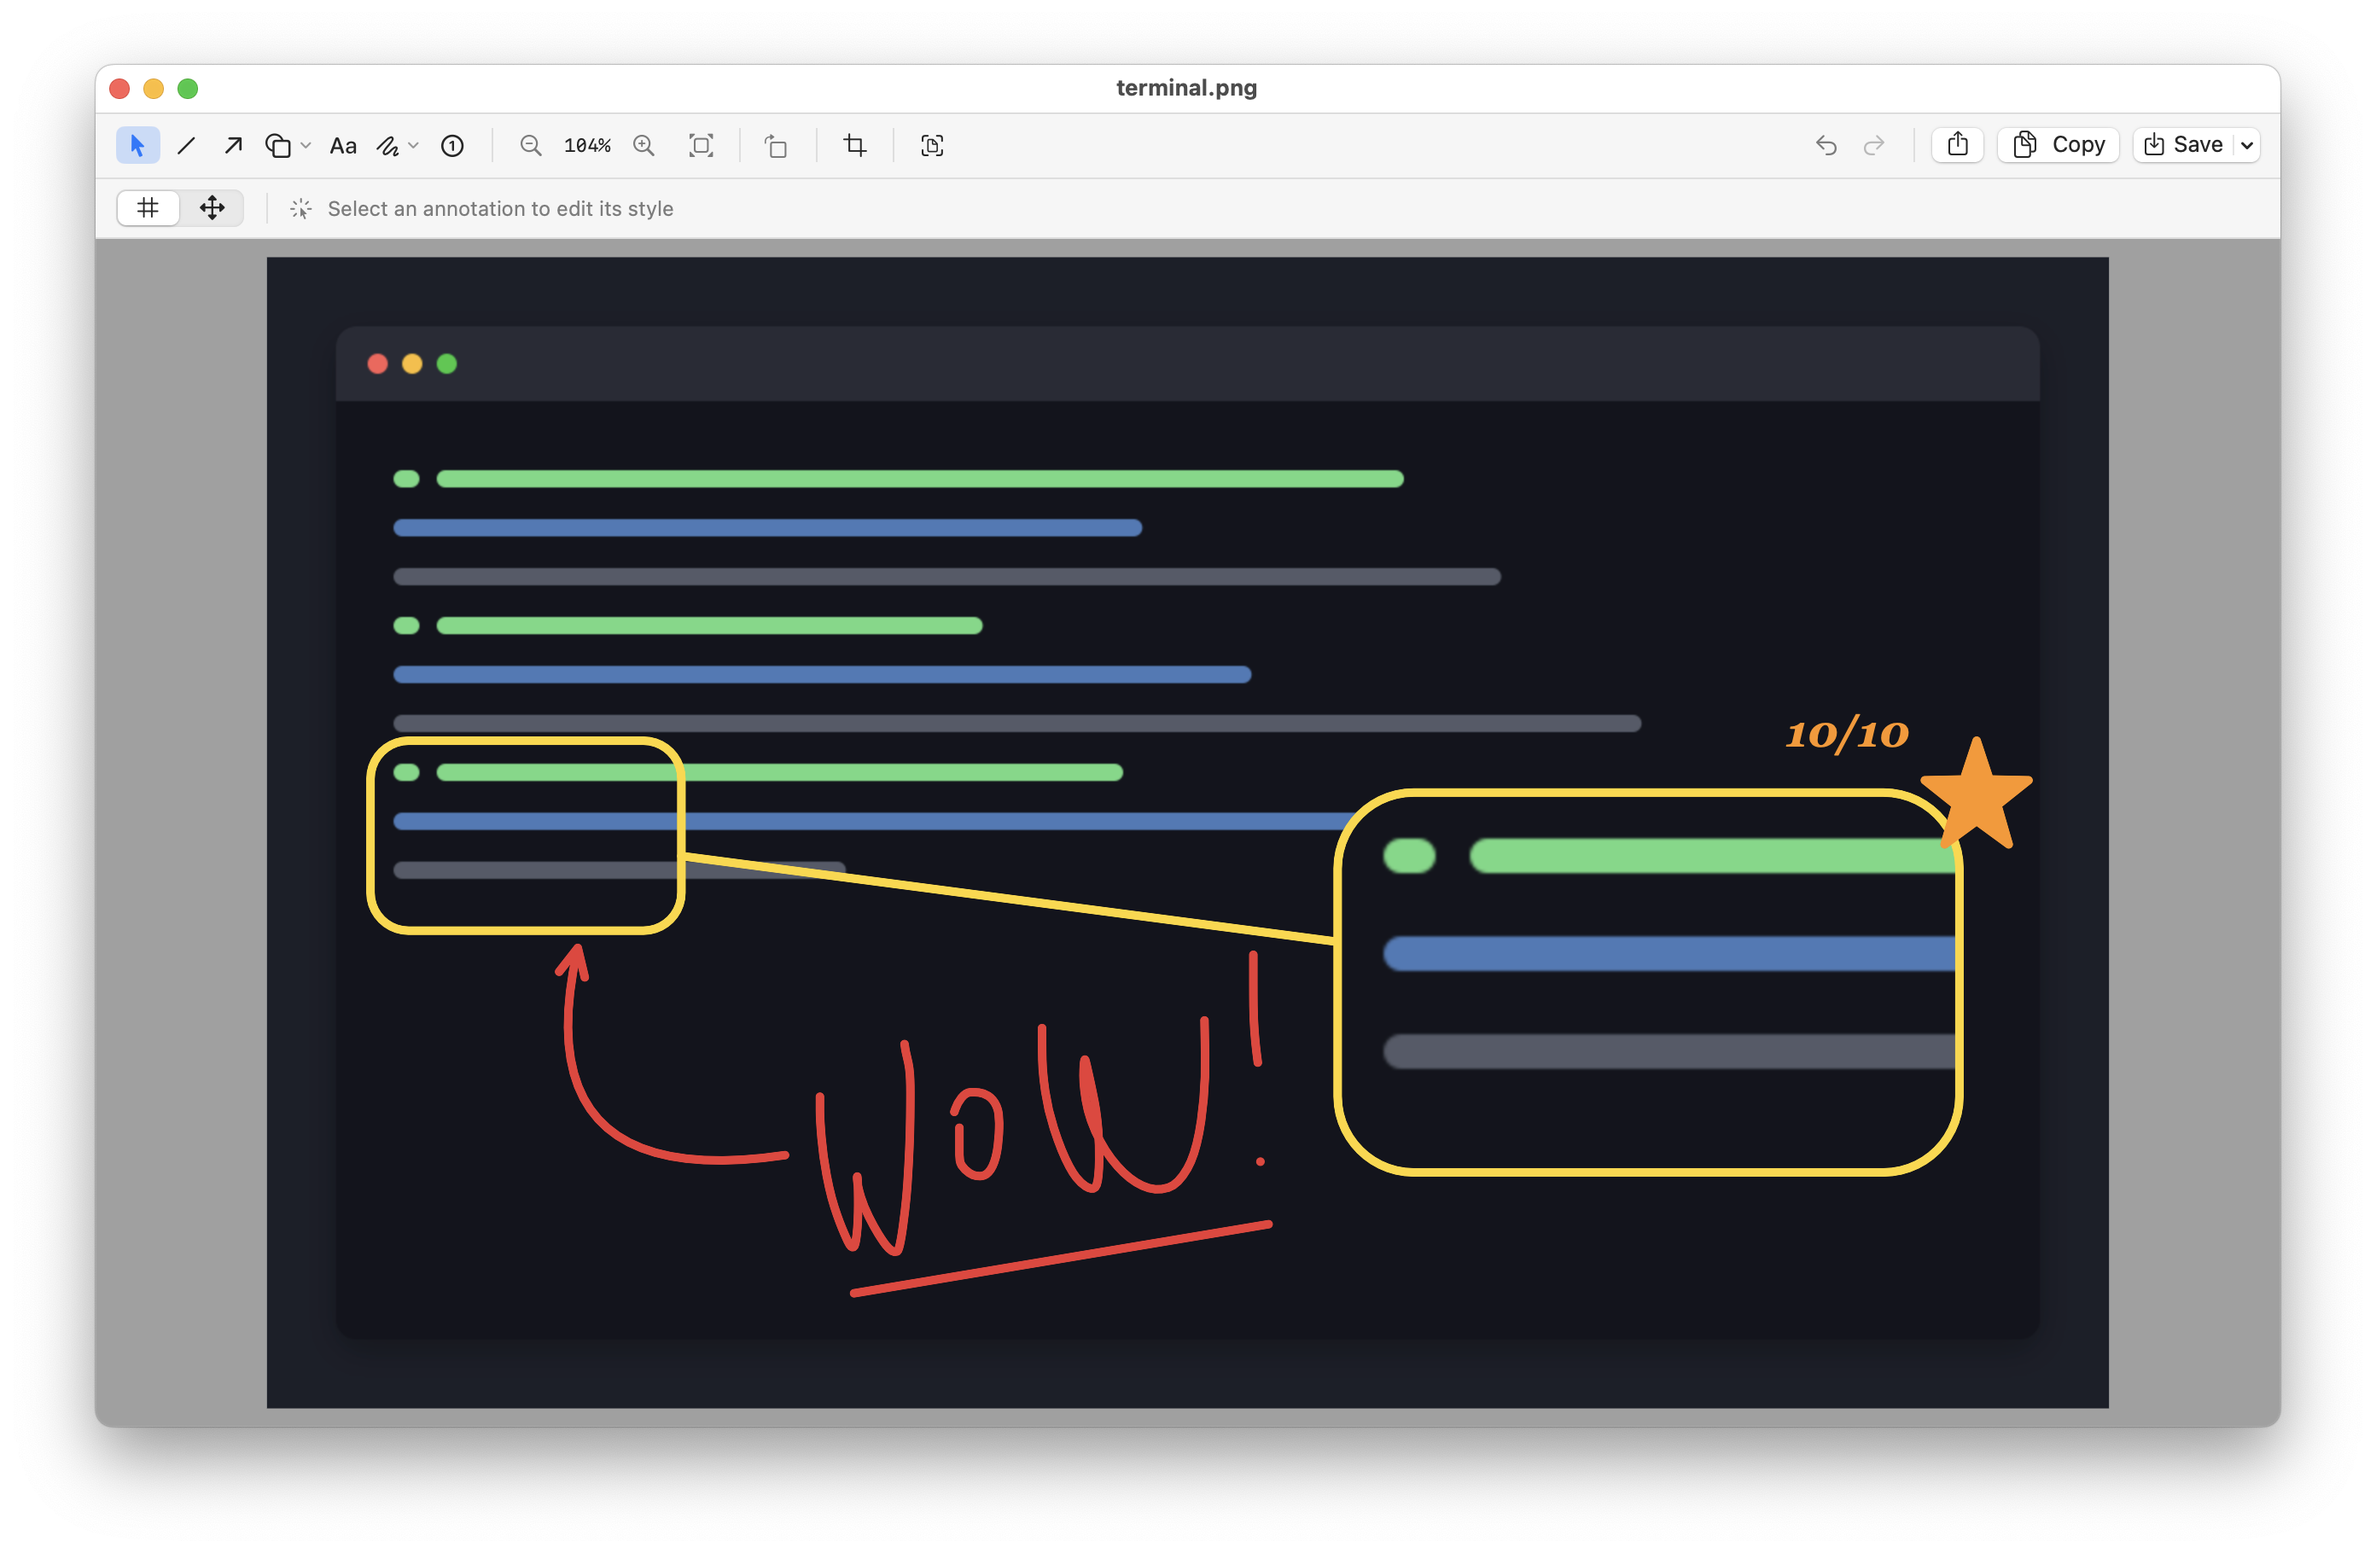
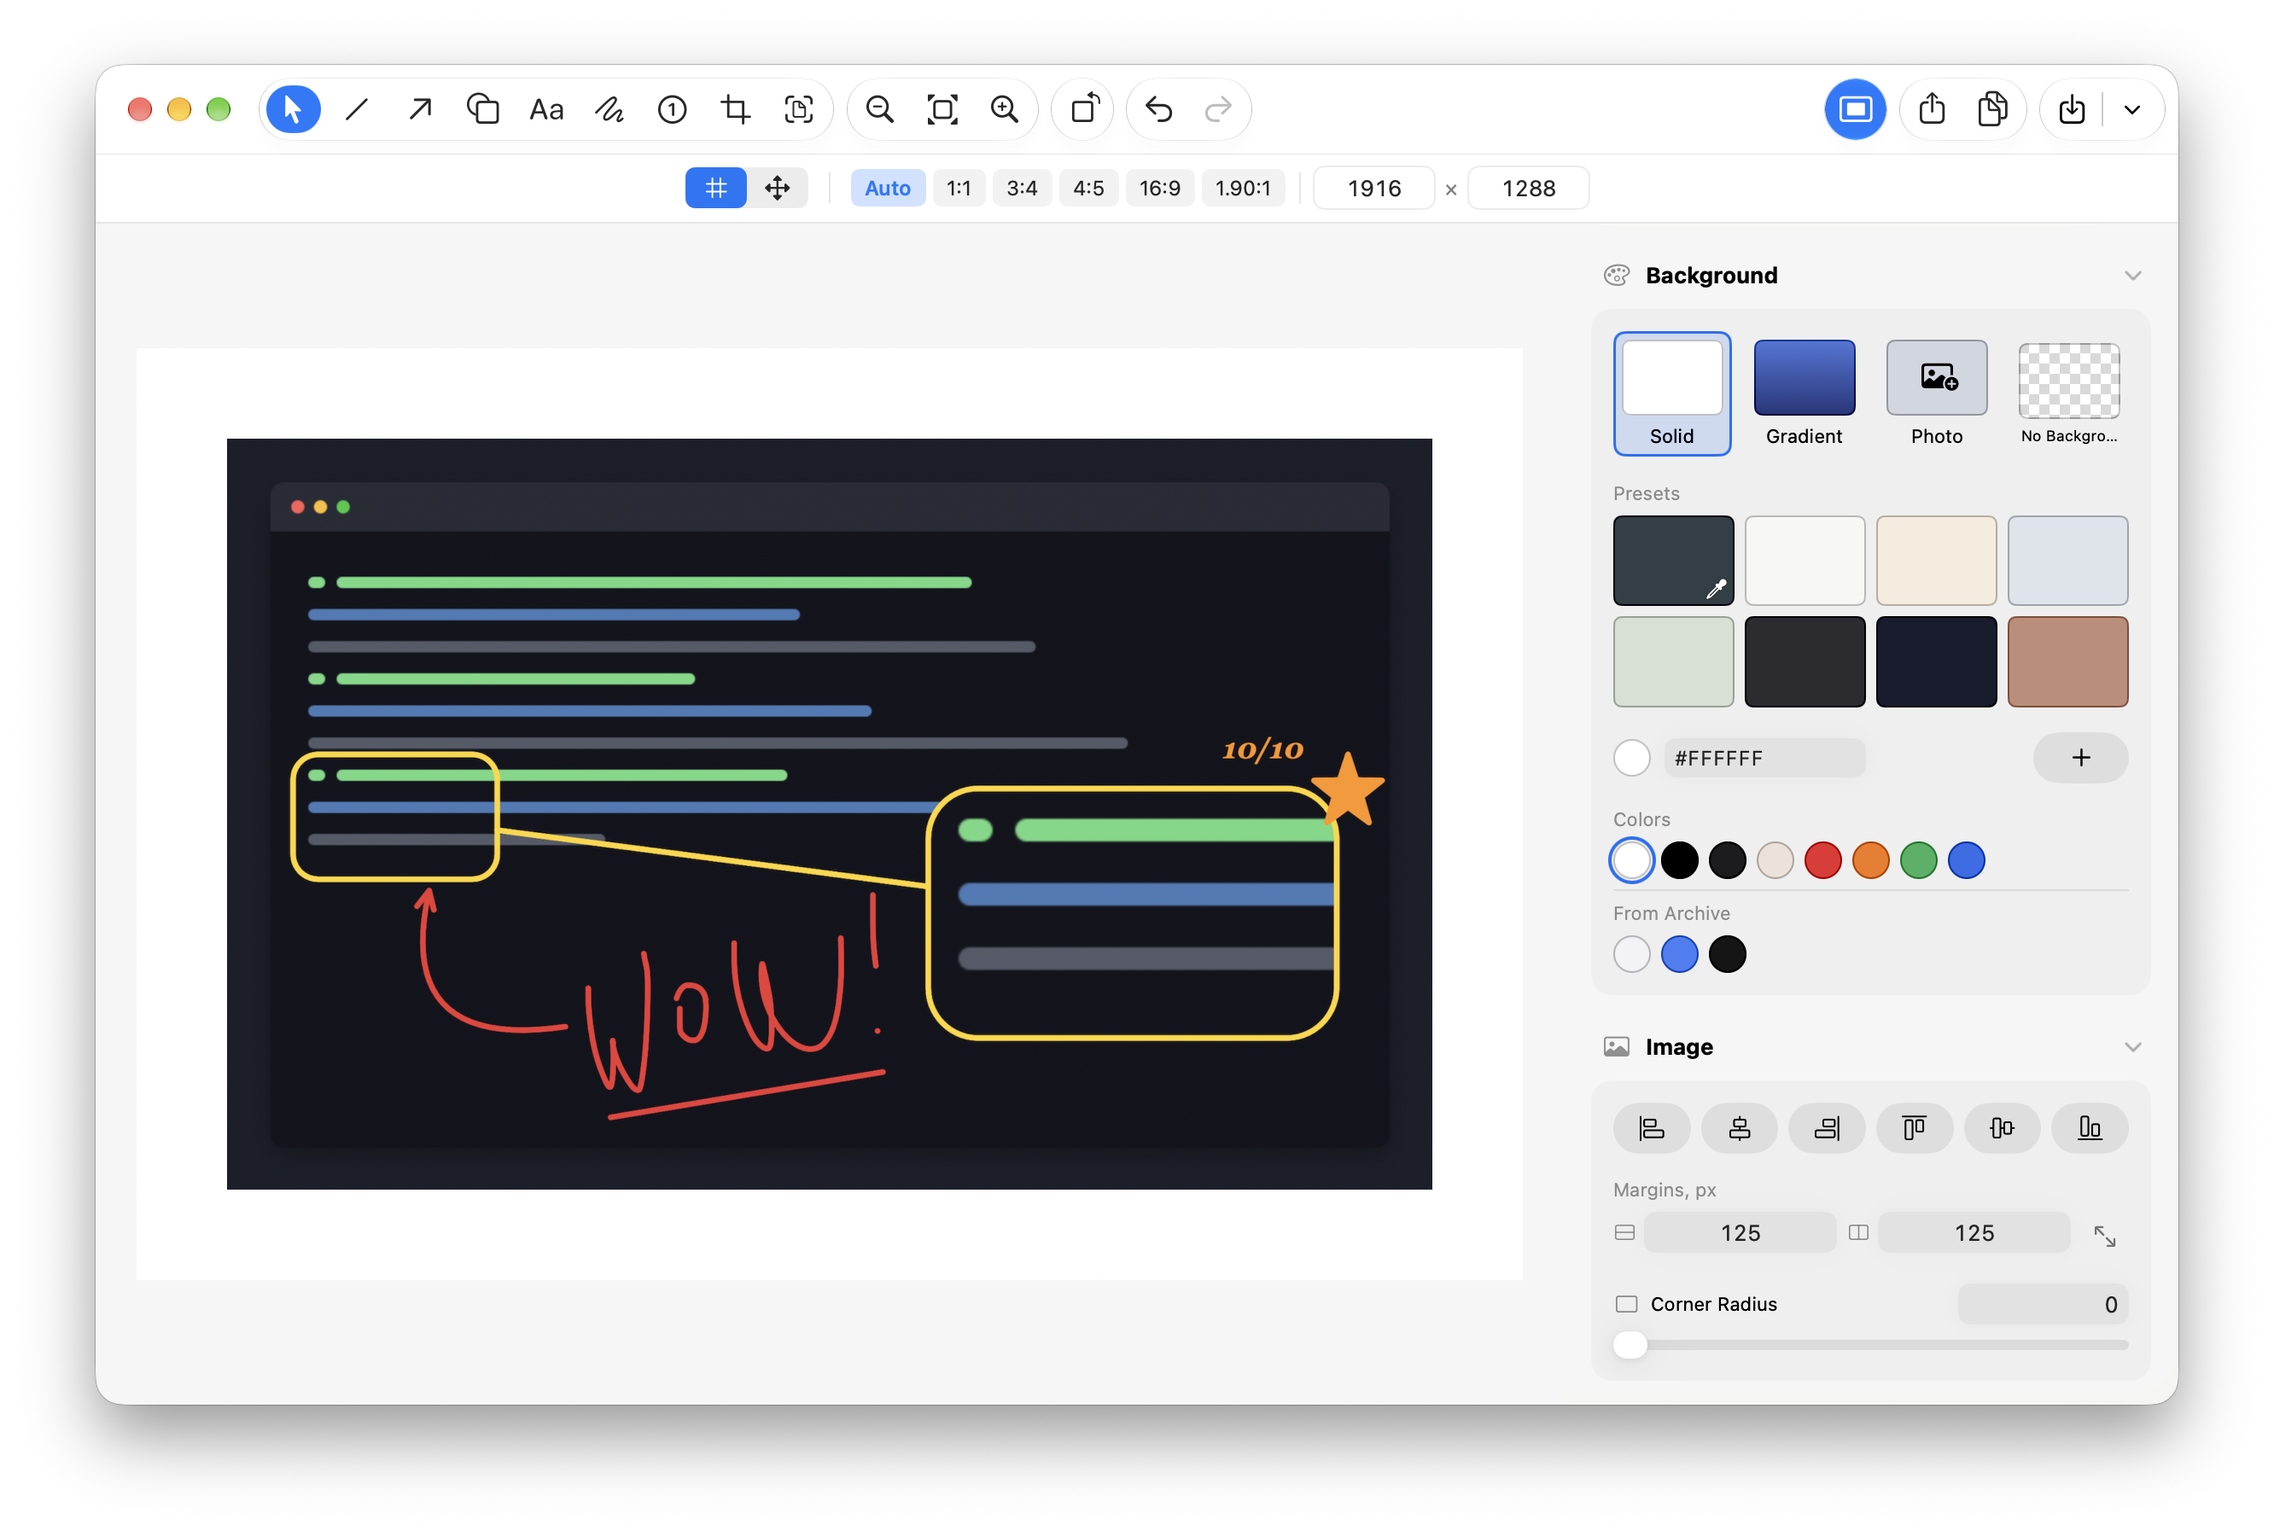
Show the notch in motion and the editor as it looks now
The onboarding clip goes under "What is Stampo": the paragraph says the
panel opens when you click the notch, and twelve seconds of exactly that
say it better than any still. It is the app's own OnboardingLight/Dark
render, as animated WebP so GitHub plays it in a loop without a player,
behind <picture> so readers get the one that matches their theme. A
repo-relative .mp4 would only have rendered as a link.

The clips are 1600 × 800 like the source, shown at 812 like the banner,
with the banner's 48 px corners cut into the alpha. Made from the mp4s at
25 fps with `img2webp -lossy -q 80 -m 5 -exact -kmin 9 -kmax 10`: without
-exact and a keyframe every ten frames, lossy deltas left streaks and
blocks in the gradients. About 0.6 MB each.

The editor screenshot is retaken on macOS 27 with the Decor panel open
and the page formats in the second row — the old one predated Decor.

diff --git a/README.md b/README.md
@@ -8,6 +8,11 @@ Screenshot, text capture, and color picker for any Mac. The panel lives at the n
 
 Stampo replaces the usual screenshot workflow with a panel that opens when you click the notch. From the panel you can take area, window, or fullscreen screenshots, mark them up in the built-in editor, scan any region for text and QR/barcodes, pick colors, and browse your recent captures in the archive.
 
+<picture>
+  <source media="(prefers-color-scheme: dark)" srcset="assets/screenshots/onboarding-dark.webp">
+  <img src="assets/screenshots/onboarding-light.webp" alt="A click on the notch opens the Stampo panel, a window is captured, and its thumbnail appears in the corner of the screen" width="812">
+</picture>
+
 ## Requirements
 
 - macOS 15.7 or later
@@ -100,7 +105,7 @@ Open **Settings → Archive → Translation**: each row reports whether its pack
 
 ## Markup Editor
 
-![The editor with a screenshot marked up: a callout loupe magnifying a region, an arrow, a star, a text label, and freehand handwriting](assets/screenshots/editor.png)
+![The editor with a screenshot marked up — a callout loupe magnifying a region, an arrow, a star, a text label, and freehand handwriting — and the Decor panel beside it, setting the picture on a white page with margins](assets/screenshots/editor.png)
 
 Click the post-capture thumbnail (or right-click a screenshot in the archive → **Edit**) to open the built-in editor: lines, arrows, rectangles, rounded rectangles, ovals, triangles, polygons, stars, speech bubbles, freehand drawing, numbered steps, text labels, loupes, and blur/pixelate regions, with full undo/redo (`⌘Z` / `⇧⌘Z`). Shapes live behind one toolbar button with a popover, as do the drawing brushes. The second toolbar row shows the settings for the active tool — colors, solid/dashed line styles, arrow route (straight, curved, or elbow) chosen independently of the stroke, arrowheads at the start, end, or both endpoints, text formatting (bold, italic, underline, strikethrough, shadow, a light/dark/none background plate, and left/center/right alignment), loupe shape and mode, and controls for line thickness, brush size, text size, marker size, fill opacity (0–100%), magnification, and blur/pixelate intensity. On narrow windows the toolbar buttons collapse from label to icon so nothing wraps.
 
